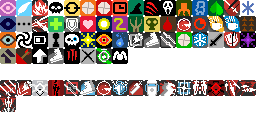
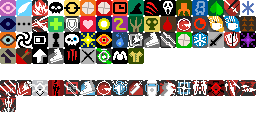
贴图 更新了本的雨衣、雨衣buff、穿甲弹、撬棍的贴图

Changed region(s): [[0.5, 0.381, 0.5625, 0.5238]]

diff --git a/Arrrknights/core/src/main/java/com/shatteredpixel/shatteredpixeldungeon/items/ror2items/Raincoat.java b/Arrrknights/core/src/main/java/com/shatteredpixel/shatteredpixeldungeon/items/ror2items/Raincoat.java
@@ -7,12 +7,13 @@ import com.shatteredpixel.shatteredpixeldungeon.messages.Messages;
 import com.shatteredpixel.shatteredpixeldungeon.sprites.CharSprite;
 import com.shatteredpixel.shatteredpixeldungeon.sprites.ItemSpriteSheet;
 import com.shatteredpixel.shatteredpixeldungeon.ui.BuffIndicator;
+import com.watabou.utils.Bundle;
 import com.watabou.utils.Random;
 
 public class Raincoat extends ROR2item{
     {
         tier = 3;
-        image = ItemSpriteSheet.UNDONE_MARK;
+        image = ItemSpriteSheet.RAINCOAT;
     }
 
     @Override
@@ -21,7 +22,7 @@ public class Raincoat extends ROR2item{
     }
 
     public class RaincoatBuff extends ROR2itemBuff{
-        private int cooldown = 5;
+        public int cooldown = 5;
         @Override
         public boolean act() {
             if(cooldown>0)cooldown--;
@@ -38,13 +39,35 @@ public class Raincoat extends ROR2item{
             spend(TICK);
             return true;
         }
+
+        @Override
+        public String toString() {
+            return Messages.get(this, "name");
+        }
+        @Override
+        public String desc() {
+            return Messages.get(this, "desc", cooldown);
+        }
         @Override
         public int icon() {
-            return BuffIndicator.IMMUNITY;
+            return BuffIndicator.RAINCOAT_BUFF;
         }
         @Override
         public float iconFadePercent() {
             return Math.max(0, cooldown / 5.0f);
+        }
+        private static final String COOLDOWN	= "cooldown";
+
+        @Override
+        public void storeInBundle( Bundle bundle ) {
+            super.storeInBundle( bundle );
+            bundle.put( COOLDOWN, cooldown );
+        }
+
+        @Override
+        public void restoreFromBundle( Bundle bundle ) {
+            super.restoreFromBundle( bundle );
+            cooldown = bundle.getInt( COOLDOWN );
         }
     }
 }

diff --git a/Arrrknights/core/src/main/java/com/shatteredpixel/shatteredpixeldungeon/sprites/ItemSpriteSheet.java b/Arrrknights/core/src/main/java/com/shatteredpixel/shatteredpixeldungeon/sprites/ItemSpriteSheet.java
@@ -950,11 +950,13 @@ public class ItemSpriteSheet {
 	public static final int LUCKYLEAF       = ROR2ITEMS_RED +0;
 	public static final int AEGIS			= ROR2ITEMS_RED +1;
 	public static final int BEHEMOTH        = ROR2ITEMS_RED +2;
+	public static final int RAINCOAT        = ROR2ITEMS_RED +3;
 
 	static{
 		assignItemRect(LUCKYLEAF,        16, 16);
 		assignItemRect(AEGIS,        16, 16);
 		assignItemRect(BEHEMOTH,        16, 16);
+		assignItemRect(RAINCOAT,        16, 16);
 	}
 
 	private static final int ROR2ITEMS_ORANGE       =                                   xy(17, 32);  //16 slots
@@ -971,6 +973,15 @@ public class ItemSpriteSheet {
 	static{
 		assignItemRect(PERFORATOR,        16, 16);
 		assignItemRect(TITANICKNURL,        16, 16);
+	}
+
+	private static final int ROR2ITEMS_WHITE       =                                   xy(17, 33);  //16 slots
+	public static final int APROUNDS        = ROR2ITEMS_WHITE +0;
+	public static final int CROWBAR        = ROR2ITEMS_WHITE +1;
+
+	static{
+		assignItemRect(APROUNDS,        16, 16);
+		assignItemRect(CROWBAR,        16, 16);
 	}
 
 	//for smaller 8x8 icons that often accompany an item sprite

diff --git a/Arrrknights/core/src/main/java/com/shatteredpixel/shatteredpixeldungeon/ui/BuffIndicator.java b/Arrrknights/core/src/main/java/com/shatteredpixel/shatteredpixeldungeon/ui/BuffIndicator.java
@@ -101,6 +101,7 @@ public class BuffIndicator extends Component {
 	public static final int SILENCE    = 53;
 	public static final int COOL_TIME    = 54;
 	public static final int RABBIT_TIME    = 55;
+	public static final int RAINCOAT_BUFF    = 56;
 
 	public static final int SIZE	= 7;
 	

diff --git a/Arrrknights/core/src/main/java/com/shatteredpixel/shatteredpixeldungeon/items/ror2items/APRounds.java b/Arrrknights/core/src/main/java/com/shatteredpixel/shatteredpixeldungeon/items/ror2items/APRounds.java
@@ -6,7 +6,7 @@ import com.shatteredpixel.shatteredpixeldungeon.sprites.ItemSpriteSheet;
 public class APRounds extends ROR2item{
     {
         tier = 1;
-        image = ItemSpriteSheet.UNDONE_MARK;
+        image = ItemSpriteSheet.APROUNDS;
     }
 
     @Override

diff --git a/Arrrknights/core/src/main/java/com/shatteredpixel/shatteredpixeldungeon/items/ror2items/Crowbar.java b/Arrrknights/core/src/main/java/com/shatteredpixel/shatteredpixeldungeon/items/ror2items/Crowbar.java
@@ -7,7 +7,7 @@ import com.shatteredpixel.shatteredpixeldungeon.sprites.ItemSpriteSheet;
 public class Crowbar extends ROR2item{
     {
         tier = 1;
-        image = ItemSpriteSheet.UNDONE_MARK;
+        image = ItemSpriteSheet.CROWBAR;
     }
 
     @Override
